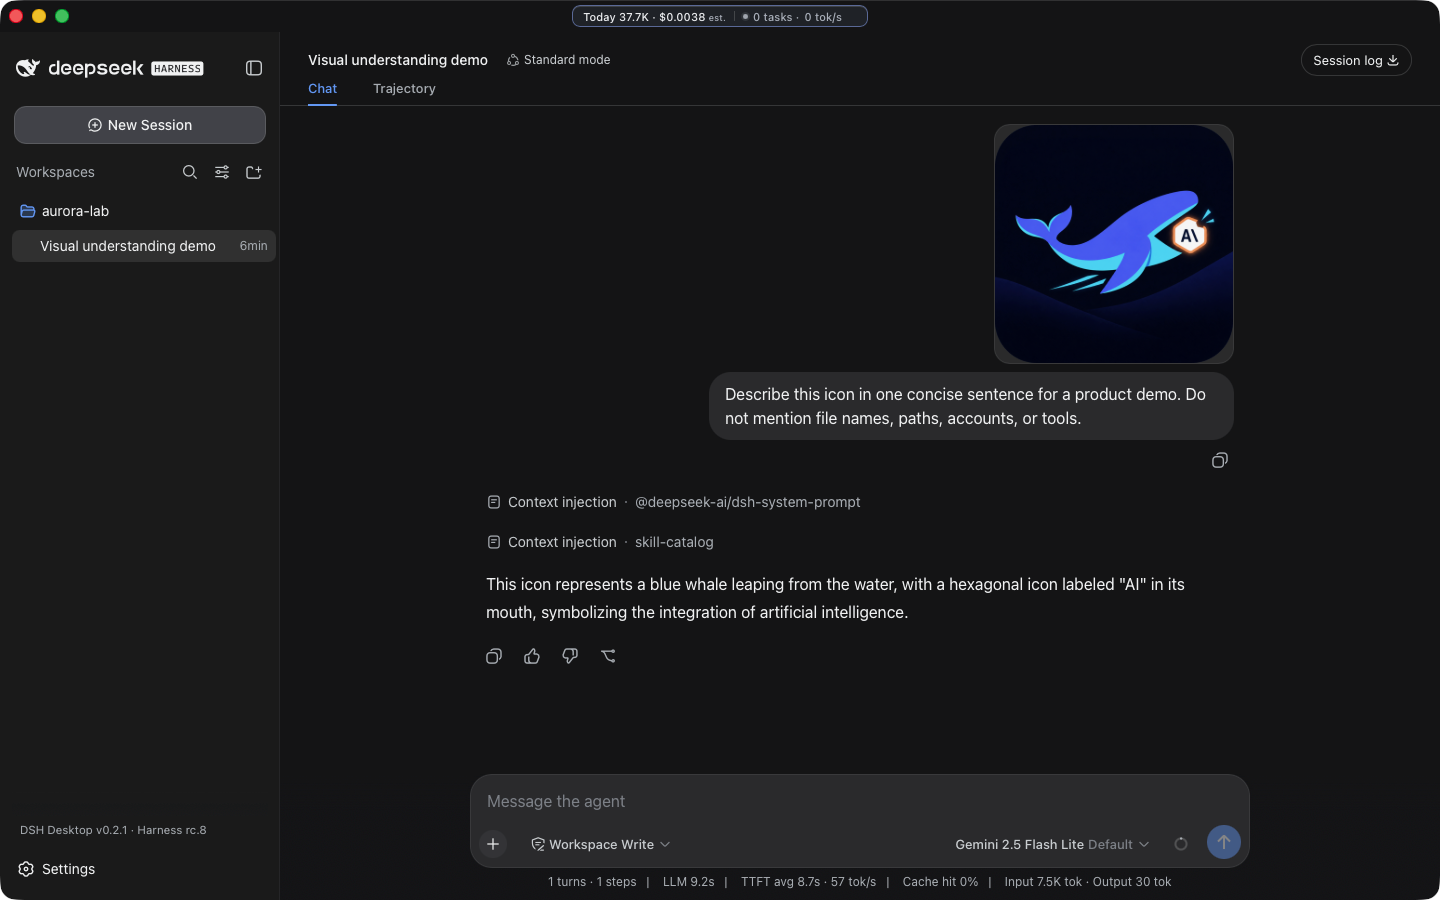
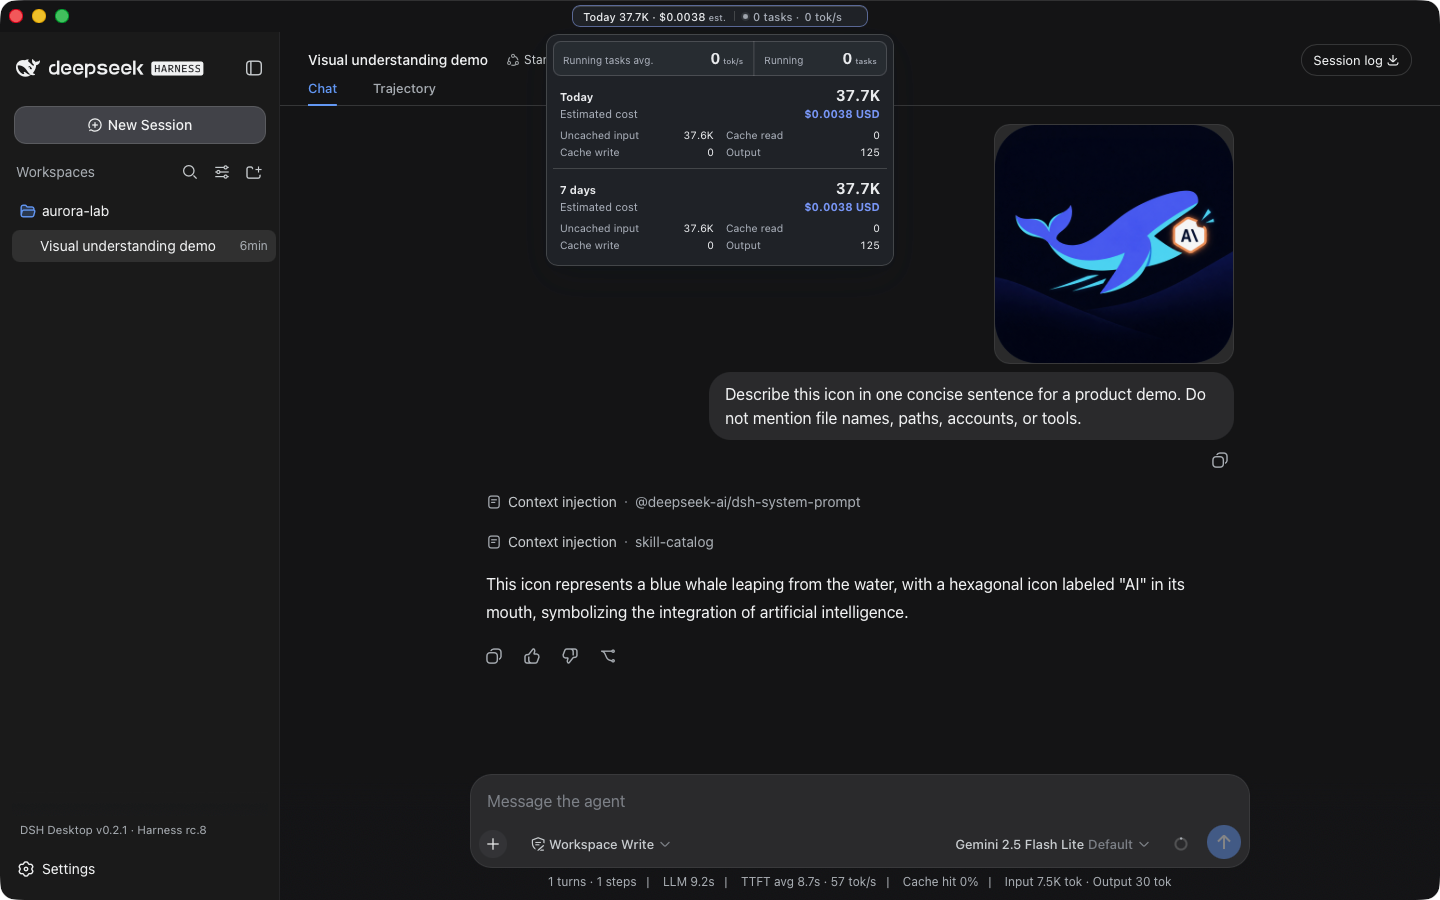
docs: use combined feature hero

diff --git a/README.md b/README.md
@@ -21,7 +21,7 @@
 
 ![DSH Desktop](docs/images/readme-hero-en.png)
 
-*A real image-input session on Harness rc.8, using `google/gemini-2.5-flash-lite` through OpenRouter.*
+*A real Harness rc.8 image-input session with live token and cost insights, using `google/gemini-2.5-flash-lite` through OpenRouter.*
 
 DSH Desktop runs the official [DeepSeek Harness](https://github.com/deepseek-ai/deepseek-harness) Web UI and runtime in a desktop window. This build is aligned with `@deepseek-ai/dsh@0.1.0-rc.8` and shows that bundled Harness version in the sidebar. The app manages the local Harness process automatically, so users do not need to install Node.js or start `dsh web` themselves.
 
@@ -38,8 +38,6 @@ DSH Desktop runs the official [DeepSeek Harness](https://github.com/deepseek-ai/
 Cost figures are estimates derived from local token logs and available public model prices. Unmatched models stay visibly unpriced rather than being counted as free.
 
 ## Usage insights
-
-![DSH Desktop usage insights](docs/images/readme-usage-en.png)
 
 The compact title-bar summary stays visible while you work. Open it for input, output, cache, cost, and live-throughput details. Usage records are read from local Harness session logs; pricing metadata may be fetched from public model catalogs.
 

diff --git a/README.zh-CN.md b/README.zh-CN.md
@@ -21,7 +21,7 @@
 
 ![DSH Desktop](docs/images/readme-hero-zh-CN.png)
 
-*Harness rc.8 的真实图片输入会话，模型通过 OpenRouter 使用 `google/gemini-2.5-flash-lite`。*
+*Harness rc.8 的真实图片输入会话，同时展开 Token 与费用统计，模型通过 OpenRouter 使用 `google/gemini-2.5-flash-lite`。*
 
 DSH Desktop 把官方 [DeepSeek Harness](https://github.com/deepseek-ai/deepseek-harness) Web UI 和运行时放进桌面窗口。当前构建使用 `@deepseek-ai/dsh@0.1.0-rc.8`，侧边栏会同时显示桌面版与内置 Harness 版本。应用会自动管理本机 Harness 进程，用户无需另外安装 Node.js，也不用手动启动 `dsh web`。
 
@@ -38,8 +38,6 @@ DSH Desktop 把官方 [DeepSeek Harness](https://github.com/deepseek-ai/deepseek
 费用来自本地 Token 记录和可用的公开模型价格，只作为估算。无法匹配价格的模型会明确显示为未定价，不会被当作免费。
 
 ## 用量统计
-
-![DSH Desktop 用量统计](docs/images/readme-usage-zh-CN.png)
 
 标题栏会持续显示精简摘要。展开后可以查看输入、输出、缓存、费用和实时吞吐率。用量记录来自本地 Harness 会话日志，价格信息可能从公开模型目录获取。
 
